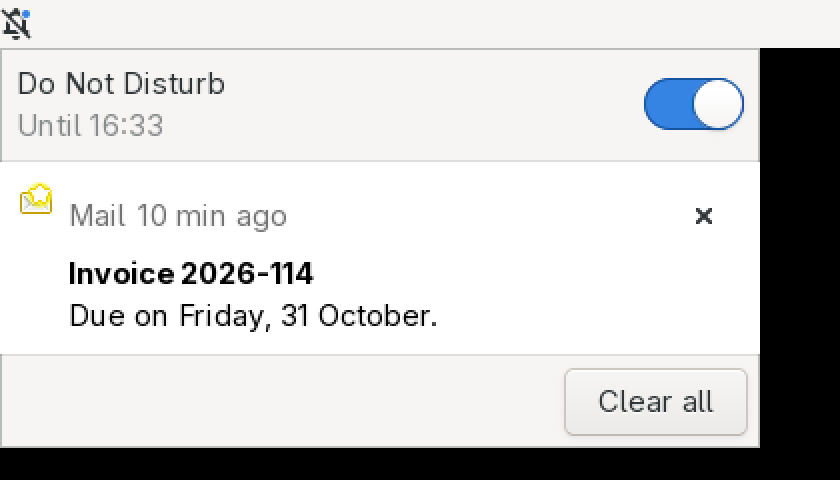
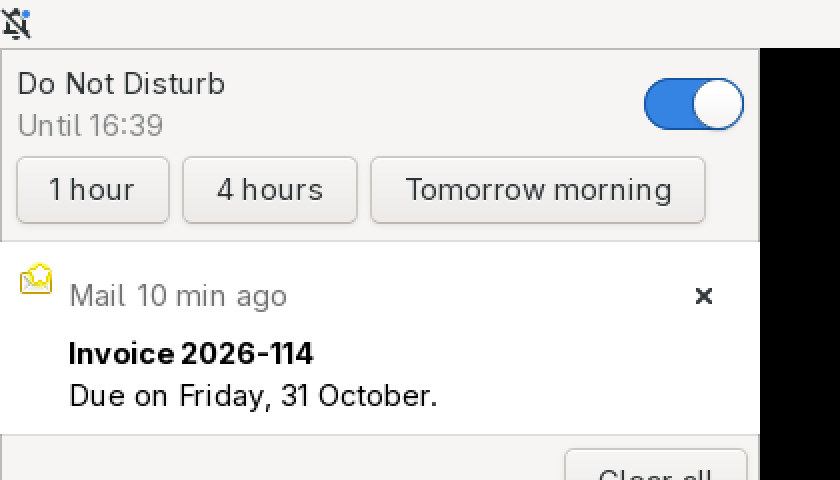
Tidy Do Not Disturb after review (CMN-263)
From the review of the first commit. A notification that waited for a bubble when Do Not
Disturb came on no longer gets one later: it keeps its entry, and one that breaks through
still waits. Whether a notification breaks through is one State method, which notify uses
too. SetDoNotDisturb's nicks, "off" included, are parsed in one place, DoNotDisturb::of_nick.

The Notification center keeps the durations while Do Not Disturb is on, so its end can be
changed without turning it off. ADR 0051 and private_api's doc name Caminito as the private
API's third client, for Super+N and Do Not Disturb's shortcut, and the call that opens the
Notification center. Comments rewrapped.

Tested by two more server tests, of a waiting notification and of "until turned off" over a
restart, the popup's test of the durations, and the check script, which now shoots the center
closed before OpenCenter opens it.

diff --git a/caminito-notifications/src/server.rs b/caminito-notifications/src/server.rs
@@ -572,9 +572,7 @@ fn notify(state: &Rc<RefCell<State>>, replaces: u32, arguments: Arguments<'_>) -
         return id;
     }
     guard.settle_do_not_disturb();
-    let breaks_through =
-        app.breaks_through || (notification.critical && guard.settings.critical_breaks_through());
-    if guard.do_not_disturb.is_on() && !breaks_through {
+    if guard.do_not_disturb.is_on() && !guard.breaks_through(&notification) {
         return id;
     }
     // A replacement isn't a new notification, so it has no sound.
@@ -861,11 +859,36 @@ impl State {
         }
     }
 
+    /// Whether `notification` gets its bubble and its sound while Do Not Disturb is on: its
+    /// app's own setting says so, or it's critical and the setting for those does.
+    fn breaks_through(&self, notification: &Notification) -> bool {
+        self.settings.effective(&notification.app).breaks_through
+            || (notification.critical && self.settings.critical_breaks_through())
+    }
+
     /// Sets Do Not Disturb to `to`. If that's a change, the file is written, the clients hear
-    /// of it, and its end is waited for again.
+    /// of it, and its end is waited for again. Coming on, it takes the waiting notifications
+    /// that don't break through out of the queue, as if they had come while it was on: they
+    /// keep their entries.
     fn set_do_not_disturb(&mut self, to: DoNotDisturb) {
         if to == self.do_not_disturb {
             return;
+        }
+        if to.is_on() {
+            let quieted: Vec<u32> = self
+                .queued
+                .iter()
+                .copied()
+                .filter(|id| {
+                    self.notifications
+                        .get(id)
+                        .is_some_and(|entry| !self.breaks_through(&entry.notification))
+                })
+                .collect();
+            self.queued.retain(|id| !quieted.contains(id));
+            for id in quieted {
+                self.notifications.remove(&id);
+            }
         }
         self.do_not_disturb = to;
         to.save(&self.do_not_disturb_file);

diff --git a/caminito-notifications/tests/server.rs b/caminito-notifications/tests/server.rs
@@ -1828,10 +1828,44 @@ fn do_not_disturb_survives_a_restart_of_the_daemon() {
         assert!(daemon.bubbles.ids().is_empty());
         drop(daemon);
 
-        // One that ended while no daemon ran is off.
+        // One that ended while no daemon ran is off, and one until turned off stays on.
         home.clock.0.set(NOW + HOUR);
-        let daemon = start_in(bus, home);
+        let daemon = start_in(bus, home.clone());
         assert_eq!(daemon.do_not_disturb(), (false, 0, String::new()));
+        daemon.set_do_not_disturb("until-turned-off");
+        drop(daemon);
+        home.clock.0.set(NOW + 100 * HOUR);
+        let daemon = start_in(bus, home);
+        assert_eq!(daemon.do_not_disturb(), (true, 0, "manual".to_owned()));
+    });
+}
+
+#[test]
+fn a_notification_waiting_for_a_bubble_gets_none_once_do_not_disturb_is_on() {
+    bus::run(|bus| {
+        let daemon = start(bus);
+        daemon
+            .apps
+            .app("Phone")
+            .set_boolean("breaks-through", true)
+            .unwrap();
+        let first = daemon.notify(notify("One"));
+        let second = daemon.notify(notify("Two"));
+        let third = daemon.notify(notify("Three"));
+        daemon.notify(notify("Waits"));
+        let call = daemon.notify(Notify {
+            app_name: "Phone",
+            ..notify("Ana is calling")
+        });
+        assert_eq!(daemon.bubbles.ids(), [first, second, third]);
+
+        daemon.set_do_not_disturb("one-hour");
+        daemon.close(first);
+        daemon.close(second);
+
+        // The call breaks through, and Waits, which doesn't, keeps only its entry.
+        assert_eq!(daemon.bubbles.ids(), [third, call]);
+        assert_eq!(daemon.summaries(), ["Ana is calling", "Waits", "Three"]);
     });
 }
 

diff --git a/caminito-notifications/src/do_not_disturb.rs b/caminito-notifications/src/do_not_disturb.rs
@@ -30,7 +30,7 @@ const DAY_TURNS: i32 = 4;
 impl Until {
     /// The duration whose nick is `nick`: `one-hour`, `four-hours`, `tomorrow-morning` or
     /// `until-turned-off`.
-    pub(crate) fn of_nick(nick: &str) -> Option<Until> {
+    fn of_nick(nick: &str) -> Option<Until> {
         match nick {
             "one-hour" => Some(Until::OneHour),
             "four-hours" => Some(Until::FourHours),
@@ -87,6 +87,18 @@ pub(crate) enum DoNotDisturb {
 }
 
 impl DoNotDisturb {
+    /// What `SetDoNotDisturb`'s `nick` sets at `now` in `zone`: `off`, or on for one of the
+    /// [`Until`] durations. `None` for a nick that's neither.
+    pub(crate) fn of_nick(nick: &str, now: u64, zone: &glib::TimeZone) -> Option<DoNotDisturb> {
+        if nick == "off" {
+            return Some(DoNotDisturb::Off);
+        }
+        let until = Until::of_nick(nick)?;
+        Some(DoNotDisturb::On {
+            end: until.end(now, zone),
+        })
+    }
+
     /// What `path` holds at `now`: off if it's missing, can't be read, or has ended.
     pub(crate) fn load(path: &Path, now: u64) -> DoNotDisturb {
         let text = match std::fs::read_to_string(path) {

diff --git a/helpers/caminito-notifications-applet/notifications-mock.py b/helpers/caminito-notifications-applet/notifications-mock.py
@@ -6,9 +6,9 @@ It has the Notification history's part of org.mate.Caminito.Notifications as the
 Notifications applet uses it: List, Dismiss, ClearApp, ClearAll, InvokeAction, Reply, Counts
 and OpenSettings, with the HistoryChanged and CountsChanged signals; and Do Not Disturb's
 (CMN-263), DoNotDisturb, SetDoNotDisturb and ToggleDoNotDisturb, with DoNotDisturbChanged,
-and OpenCenter, which emits OpenCenterRequested. Its Do Not Disturb never ends by itself. As in the daemon, an
-entry leaves the history when it's dismissed or one of its actions is used, unless it's
-resident, and List gives the newest first. It refuses what the daemon refuses: an entry that
+and OpenCenter, which emits OpenCenterRequested. Its Do Not Disturb never ends by itself. As
+in the daemon, an entry leaves the history when it's dismissed or one of its actions is used,
+unless it's resident, and List gives the newest first. It refuses what the daemon refuses: an entry that
 isn't there, and an action an entry hasn't, "default" without a default action.
 
 org.caminito.NotificationsMock is for a test or a check script:

diff --git a/caminito-notifications/src/server/api.rs b/caminito-notifications/src/server/api.rs
@@ -13,7 +13,7 @@ use gio::glib::{self, Variant};
 use gio::prelude::*;
 
 use super::{Reason, State, close, close_all, invoke, reply};
-use crate::do_not_disturb::{DoNotDisturb, Until};
+use crate::do_not_disturb::DoNotDisturb;
 use crate::history::ENTRY_TYPE;
 
 const INVALID_ARGS: &str = "org.freedesktop.DBus.Error.InvalidArgs";
@@ -115,13 +115,8 @@ pub(super) fn handle(
         "SetDoNotDisturb" => {
             let nick = text(0);
             let mut guard = state.borrow_mut();
-            let to = if nick == "off" {
-                DoNotDisturb::Off
-            } else if let Some(until) = Until::of_nick(&nick) {
-                DoNotDisturb::On {
-                    end: until.end(guard.clock.now(), &guard.clock.zone()),
-                }
-            } else {
+            let (now, zone) = (guard.clock.now(), guard.clock.zone());
+            let Some(to) = DoNotDisturb::of_nick(&nick, now, &zone) else {
                 drop(guard);
                 return refuse(format!("Do Not Disturb has no duration {nick}"));
             };

diff --git a/caminito-notifications/src/lib.rs b/caminito-notifications/src/lib.rs
@@ -9,10 +9,9 @@
 //! [`apps`], the Notifying apps the settings window lists, [`private_api`], what the
 //! applets call, and `markup`, which makes a body's markup safe for Pango. The server also
 //! keeps the Notification history (CMN-259), in a file, which `private_api` serves, and
-//! decides Do Not Disturb (CMN-263), which a file keeps too. The
-//! integration tests drive the server and the private API on a private bus with fakes of what
-//! the binary gives them. The bubbles' layer surfaces, the settings window and libcanberra are the
-//! binary's.
+//! decides Do Not Disturb (CMN-263), which a file keeps too. The integration tests drive the
+//! server and the private API on a private bus with fakes of what the binary gives them. The
+//! bubbles' layer surfaces, the settings window and libcanberra are the binary's.
 
 #![forbid(unsafe_code)]
 

diff --git a/caminito-notifications/src/private_api.rs b/caminito-notifications/src/private_api.rs
@@ -1,7 +1,8 @@
 //! The daemon's private API (ADR 0051), `org.mate.Caminito.Notifications` at
 //! `/org/mate/Caminito/Notifications`, on the name the program owns as a single-instance
-//! application. Its clients are the Notifications applet and the Dock applet, which ship in
-//! the same package, so it's unversioned. It opens the settings window (CMN-261) and serves
+//! application. Its clients are the Notifications applet and the Dock applet, and Caminito
+//! for Super+N and Do Not Disturb's shortcut, which all ship in the same package, so it's
+//! unversioned. It opens the settings window (CMN-261) and serves
 //! the Notification history (CMN-259) and Do Not Disturb (CMN-263), whose calls the server
 //! answers, and passes a request for the Notification center on to the applet, which owns no
 //! name to be called at.

diff --git a/caminito/src/input/bindings.rs b/caminito/src/input/bindings.rs
@@ -2,9 +2,8 @@
 //! `org.mate.Marco.window-keybindings` as Marco reads them (148), and with a mouse button
 //! where Marco reads none (184, ADR 0028). The Overview's, which Marco has no action
 //! for, is `org.mate.Caminito`'s (241), as are the Notification center's and Do Not
-//! Disturb's (CMN-263). The accelerators other
-//! programs grab are `accelerators`' (98), and the modifier a click on a window is held
-//! with is `button_modifier`'s (162).
+//! Disturb's (CMN-263). The accelerators other programs grab are `accelerators`' (98), and
+//! the modifier a click on a window is held with is `button_modifier`'s (162).
 
 pub(crate) mod accelerators;
 pub(crate) mod button_modifier;

diff --git a/helpers/caminito-notifications-applet/nt-popup.c b/helpers/caminito-notifications-applet/nt-popup.c
@@ -222,7 +222,7 @@ on_duration (GtkButton *button, gpointer data)
 }
 
 /* The Do Not Disturb row: its name, and when it ends below it while it's on, beside the
-   switch; and below them, the durations, which show while it's off. */
+   switch; and below them, the durations, which turn it on or change its end. */
 static GtkWidget *
 do_not_disturb_row (NtPopup *popup)
 {
@@ -443,7 +443,6 @@ nt_popup_set_do_not_disturb (NtPopup *popup, gboolean on, guint64 end, gint64 no
   popup->updating = FALSE;
   gtk_label_set_text (GTK_LABEL (popup->until), until);
   gtk_widget_set_visible (popup->until, on);
-  gtk_widget_set_visible (popup->durations, !on);
   fit_list (popup);
 }
 

diff --git a/caminito-behaviour/src/system_shortcuts.rs b/caminito-behaviour/src/system_shortcuts.rs
@@ -2,8 +2,8 @@
 //! any remap, so a rule whose combination is one never applies, and a target that is one
 //! runs it (ADR 0038). They're read as Caminito reads its bindings (148): Marco's
 //! `global-keybindings` and `window-keybindings`, and `org.mate.Caminito`'s Overview keys
-//! (241, CMN-185) and Notifications keys (CMN-263). The accelerators other programs grab, as mate-panel's Alt+F1, aren't in
-//! any key the page can read, and aren't marked.
+//! (241, CMN-185) and Notifications keys (CMN-263). The accelerators other programs grab,
+//! as mate-panel's Alt+F1, aren't in any key the page can read, and aren't marked.
 
 use gio::prelude::*;
 

diff --git a/helpers/caminito-notifications-applet/nt-popup.h b/helpers/caminito-notifications-applet/nt-popup.h
@@ -4,7 +4,7 @@
  * icon and name, its age, a close button, its summary, body and image, and its action
  * buttons; "No notifications" when it's empty; and "Clear all" at the bottom. On top is the
  * Do Not Disturb row (CMN-263): its switch, which turns it on until turned off, "Until 14:30"
- * while it's on, and while it's off the durations to turn it on for. Grouping by app
+ * while it's on, and the durations to turn it on for or change its end to. Grouping by app
  * (CMN-265) comes later. It draws NtEntries and calls back for what the user does, so that it
  * knows nothing of D-Bus.
  */

diff --git a/helpers/caminito-notifications-applet/test-popup.c b/helpers/caminito-notifications-applet/test-popup.c
@@ -413,7 +413,8 @@ test_the_do_not_disturb_row_shows_its_state (Fixture *fixture, gconstpointer dat
   nt_popup_set_do_not_disturb (fixture->popup, TRUE, NOW + 60 * 60, NOW);
   g_assert_true (gtk_switch_get_active (GTK_SWITCH (do_not_disturb_switch (fixture))));
   g_assert_true (shows (fixture, "Until 23:13"));
-  g_assert_false (shows (fixture, "1 hour"));
+  /* The durations stay, to change the end with. */
+  g_assert_true (shows (fixture, "1 hour"));
 
   nt_popup_set_do_not_disturb (fixture->popup, TRUE, 0, NOW);
   g_assert_true (shows (fixture, "Until turned off"));
